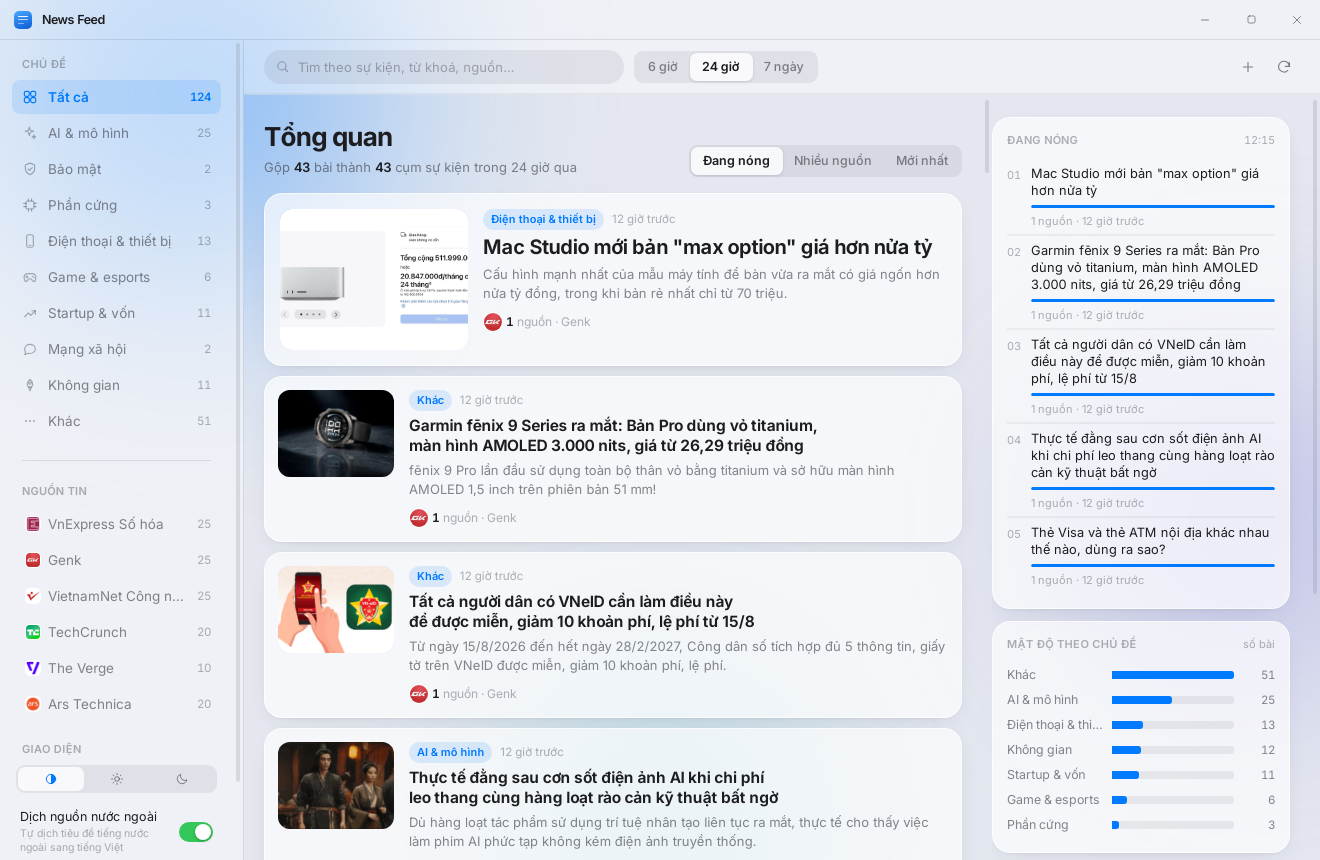
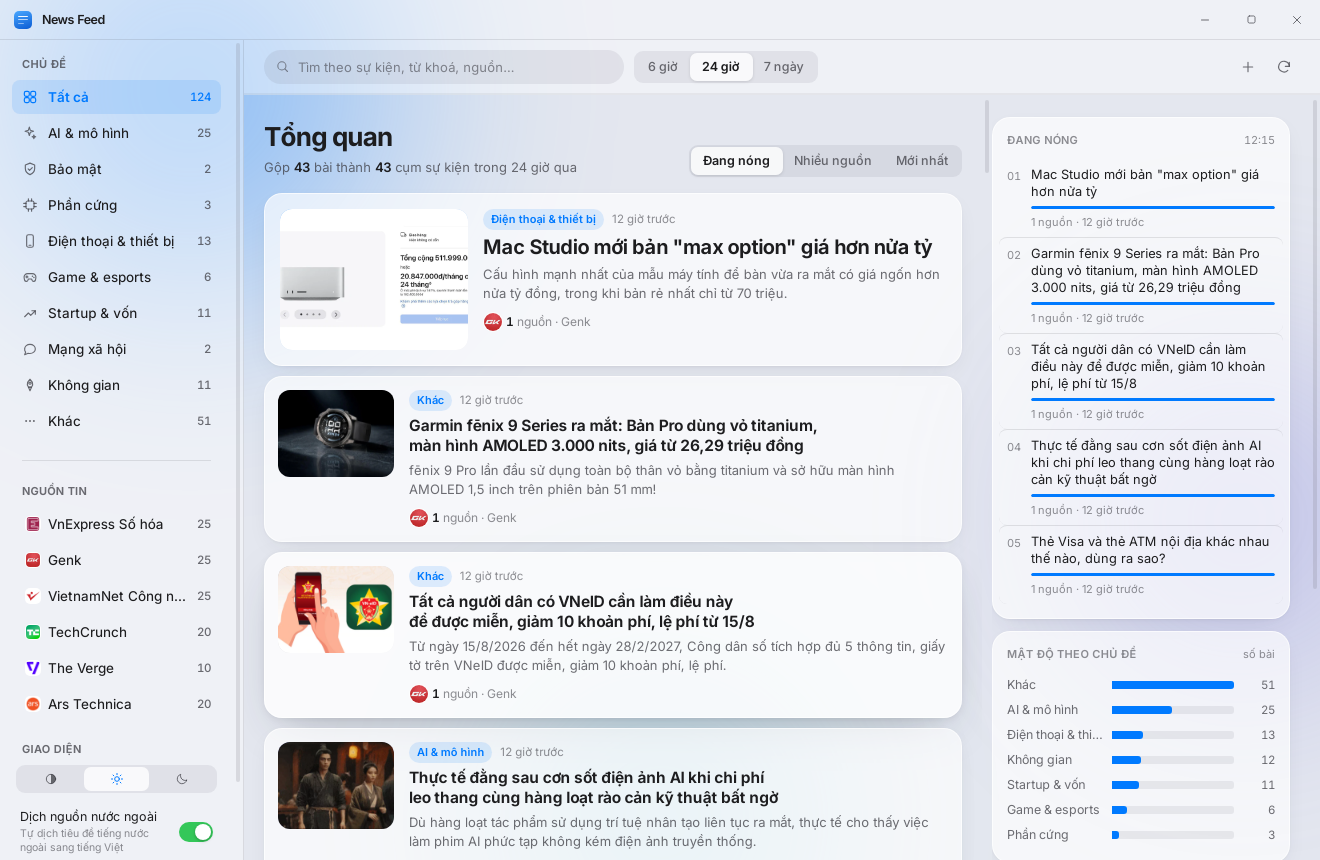
Tăng tương phản chữ và cho bấm vào mục Đang nóng (v0.3.1)
Chữ thanh bên mờ: đo tương phản trên đúng nền thanh bên thì mục điều hướng
chỉ đạt 3,44:1 ở bản sáng, còn nhãn phụ và số đếm chỉ 2,08:1 — đều dưới
ngưỡng dễ đọc 4,5:1.

- Nâng --label-2 từ 0.62 lên 0.75 (sáng) và 0.72 (tối), --label-3 từ 0.40
  lên 0.58 và từ 0.36 lên 0.52. Sau khi nâng: 4,82:1 và 8,50:1.
- Mục điều hướng chuyển sang mực đầy với nét 450 thay vì màu chữ phụ, vì
  đây là nội dung chính của thanh bên chứ không phải chú thích. Đạt 14,9:1.
- Nhãn nhóm, số đếm và icon dùng --label-2 thay cho --label-3.

Mục trong panel Đang nóng trước đây chỉ để đọc. Chuyển thành nút mở thẳng
tin đó, vùng bấm nới rộng hết bề ngang panel, có trạng thái hover và tooltip.

Chụp lại hai ảnh dashboard trong README cho khớp độ tương phản mới.

diff --git a/src/styles/app.css b/src/styles/app.css
@@ -96,10 +96,10 @@
 .nav-section { display: flex; flex-direction: column; gap: 2px; }
 .section-title {
   font-size: 11px;
-  font-weight: 600;
+  font-weight: 650;
   letter-spacing: 0.04em;
   text-transform: uppercase;
-  color: var(--label-3);
+  color: var(--label-2);
   padding: 0 10px 6px;
 }
 .nav-item {
@@ -109,7 +109,10 @@
   padding: 7px 10px;
   border-radius: var(--r-sm);
   font-size: 13.5px;
-  color: var(--label-2);
+  /* Danh sách điều hướng là nội dung chính của thanh bên, không phải chữ
+     phụ: dùng mực đầy và nét dày hơn mặc định cho rõ ở cỡ 13,5px. */
+  font-weight: 450;
+  color: var(--label);
   text-align: left;
   transition: background var(--dur-fast) ease, color var(--dur-fast) ease;
 }
@@ -122,10 +125,10 @@
 .nav-item .nav-icon {
   width: 16px; height: 16px; flex: none;
   display: grid; place-items: center;
-  color: var(--label-3);
+  color: var(--label-2);
   transition: color var(--dur-fast) ease, transform var(--dur-base) var(--ease-out);
 }
-.nav-item:hover .nav-icon { color: var(--label-2); }
+.nav-item:hover .nav-icon { color: var(--label); }
 .nav-item[aria-current="true"] .nav-icon { color: currentColor; transform: scale(1.06); }
 
 /* Chấm tròn vẫn dùng cho các mục không thuộc chủ đề. */
@@ -138,7 +141,8 @@
 .nav-item .count {
   margin-left: auto;
   font-size: 11.5px;
-  color: var(--label-3);
+  font-weight: 500;
+  color: var(--label-2);
   font-variant-numeric: tabular-nums;
 }
 .nav-item[aria-current="true"] .count { color: var(--blue); }
@@ -444,12 +448,26 @@
 }
 .panel-head .note { margin-left: auto; font-size: 11px; color: var(--label-3); font-variant-numeric: tabular-nums; }
 
-.hot-row { display: grid; grid-template-columns: 15px minmax(0, 1fr); gap: 9px; padding: 6px 0; }
+/* Mỗi dòng là một nút mở thẳng tin đó, vùng bấm nới rộng hết bề ngang panel. */
+.hot-row {
+  display: grid;
+  grid-template-columns: 15px minmax(0, 1fr);
+  gap: 9px;
+  width: calc(100% + 16px);
+  margin: 0 -8px;
+  padding: 7px 8px;
+  text-align: left;
+  border-radius: var(--r-sm);
+  transition: background var(--dur-fast) ease;
+}
 .hot-row + .hot-row { border-top: 1px solid var(--hairline); }
+.hot-row:hover { background: var(--fill); }
+.hot-row:active { background: var(--fill-strong); }
+.hot-row:hover p { color: var(--blue); }
 .hot-row .rank { font-size: 11px; color: var(--label-3); padding-top: 2px; font-variant-numeric: tabular-nums; }
-.hot-row p { margin: 0 0 6px; font-size: 12.8px; line-height: 1.36; }
+.hot-row p { margin: 0 0 6px; font-size: 12.8px; line-height: 1.36; transition: color var(--dur-fast) ease; }
 .hot-row .sub { font-size: 11px; color: var(--label-3); margin-top: 5px; display: block; }
-.meter { height: 3px; border-radius: 2px; background: var(--fill); overflow: hidden; }
+.meter { display: block; height: 3px; border-radius: 2px; background: var(--fill); overflow: hidden; }
 .meter i { display: block; height: 100%; border-radius: 2px; background: var(--blue); transition: width var(--dur-base) var(--ease-out); }
 .hot-row:first-child .meter i { background: var(--orange); }
 

diff --git a/src/components/InsightRail.tsx b/src/components/InsightRail.tsx
@@ -6,6 +6,7 @@ import { clockTime, formatNumber, relativeTime } from "../lib/format";
 interface Props {
   snapshot: Snapshot;
   clusters: Cluster[];
+  onOpen: (cluster: Cluster) => void;
 }
 
 function Sparkline({ data }: { data: number[] }) {
@@ -60,7 +61,7 @@ function Sparkline({ data }: { data: number[] }) {
   );
 }
 
-export function InsightRail({ snapshot, clusters }: Props) {
+export function InsightRail({ snapshot, clusters, onOpen }: Props) {
   const hot = clusters.slice(0, 5);
   const peak = hot[0]?.score ?? 1;
   const topics = snapshot.topicCounts.slice(0, 7);
@@ -80,18 +81,23 @@ export function InsightRail({ snapshot, clusters }: Props) {
           <p style={{ margin: 0, fontSize: 12.5, color: "var(--label-3)" }}>Chưa có dữ liệu.</p>
         ) : (
           hot.map((cluster, index) => (
-            <div className="hot-row" key={cluster.id}>
+            <button
+              className="hot-row"
+              key={cluster.id}
+              onClick={() => onOpen(cluster)}
+              title="Mở tin này"
+            >
               <span className="rank">{String(index + 1).padStart(2, "0")}</span>
-              <div>
+              <span>
                 <p>{cluster.titleVi?.trim() || cluster.title}</p>
-                <div className="meter">
+                <span className="meter">
                   <i style={{ width: `${Math.round((cluster.score / peak) * 100)}%` }} />
-                </div>
+                </span>
                 <span className="sub">
                   {cluster.sourceCount} nguồn · {relativeTime(cluster.newest)}
                 </span>
-              </div>
-            </div>
+              </span>
+            </button>
           ))
         )}
       </section>

diff --git a/src/styles/tokens.css b/src/styles/tokens.css
@@ -23,8 +23,10 @@
 
   /* Chữ */
   --label: #1d1d1f;
-  --label-2: rgba(60, 60, 67, 0.62);
-  --label-3: rgba(60, 60, 67, 0.4);
+  /* Đã đo tương phản trên nền thanh bên và nền thẻ tin: mức cũ 0.62/0.40
+     chỉ cho 3,4:1 và 2,1:1 ở bản sáng, dưới ngưỡng dễ đọc. */
+  --label-2: rgba(60, 60, 67, 0.75);
+  --label-3: rgba(60, 60, 67, 0.58);
 
   /* Màu hệ thống */
   --blue: #007aff;
@@ -77,8 +79,8 @@
   --fill-strong: rgba(118, 118, 128, 0.36);
 
   --label: #f5f5f7;
-  --label-2: rgba(235, 235, 245, 0.62);
-  --label-3: rgba(235, 235, 245, 0.36);
+  --label-2: rgba(235, 235, 245, 0.72);
+  --label-3: rgba(235, 235, 245, 0.52);
 
   --blue: #0a84ff;
   --blue-soft: rgba(10, 132, 255, 0.2);

diff --git a/src/App.tsx b/src/App.tsx
@@ -307,7 +307,7 @@ export default function App() {
                 </div>
               </main>
 
-              {snapshot && <InsightRail snapshot={snapshot} clusters={clusters} />}
+              {snapshot && <InsightRail snapshot={snapshot} clusters={clusters} onOpen={setReader} />}
             </div>
           </div>
 
